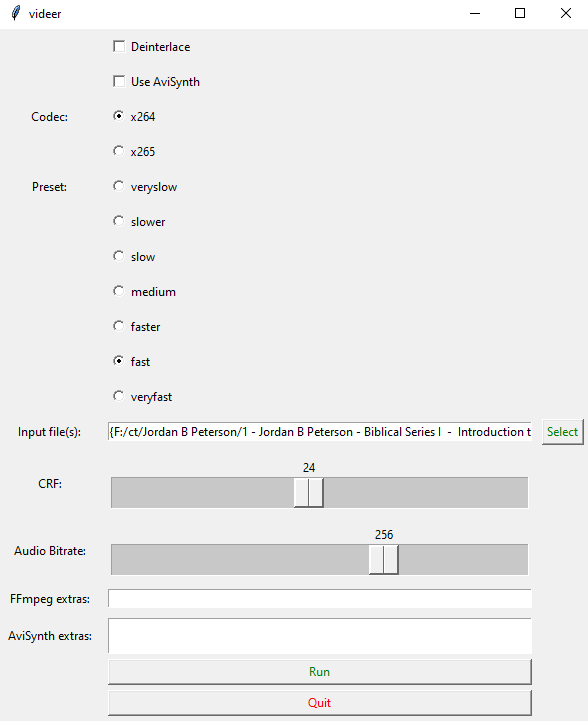
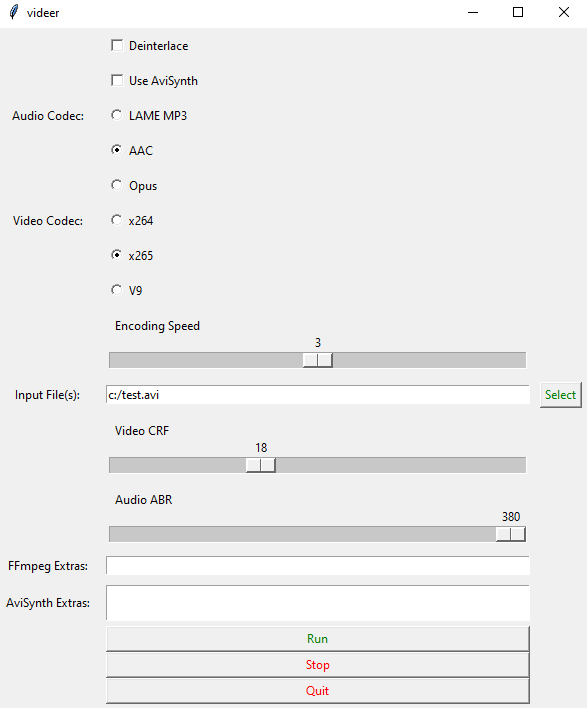
integrate labels to widgets update thumb

diff --git a/videer.py b/videer.py
@@ -186,10 +186,7 @@ class Application(tk.Frame):
         self.codec_button = tk.Radiobutton(self, text="V9", variable=self.codec_var, value="libvpx-vp9")
         self.codec_button.grid(row=7, column=1, sticky='w', pady=5, padx=5)
 
-        self.speed_label = tk.Label(self)
-        self.speed_label["text"] = "Speed: "
-        self.speed_label.grid(row=8, column=0, sticky='', padx=5)
-        self.speed = tk.Scale(self, from_=0, to=6, orient=tk.HORIZONTAL)
+        self.speed = tk.Scale(self, from_=0, to=6, orient=tk.HORIZONTAL, label="Encoding Speed")
         self.speed.grid(row=8, column=1, sticky='WE', pady=5, padx=5)
         self.speed.set(3)
 
@@ -205,17 +202,11 @@ class Application(tk.Frame):
         self.infile = tk.Entry(self, textvariable=self.infile_value, width=70)
         self.infile.grid(row=15, column=1, sticky='W', padx=5)
 
-        self.crf_label = tk.Label(self)
-        self.crf_label["text"] = "CRF: "
-        self.crf_label.grid(row=16, column=0, sticky='', padx=5)
-        self.crf = tk.Scale(self, from_=0, to=51, orient=tk.HORIZONTAL)
+        self.crf = tk.Scale(self, from_=0, to=51, orient=tk.HORIZONTAL, label="Video CRF")
         self.crf.grid(row=16, column=1, sticky='WE', pady=5, padx=5)
         self.crf.set(18)
 
-        self.abr_label = tk.Label(self)
-        self.abr_label["text"] = "Audio ABR: "
-        self.abr_label.grid(row=17, column=0, sticky='', padx=5)
-        self.abr = tk.Scale(self, from_=0, to=384, orient=tk.HORIZONTAL)
+        self.abr = tk.Scale(self, from_=0, to=384, orient=tk.HORIZONTAL, label="Audio ABR", resolution=10)
         self.abr.grid(row=17, column=1, sticky='WE', pady=5, padx=5)
         self.abr.set(384)
 
@@ -235,13 +226,13 @@ class Application(tk.Frame):
         #self.avisynth_extras.insert(tk.END, "Just a text Widget\nin two lines\n")
 
         self.run = tk.Button(self, text="Run", fg="green", command=lambda: self.runfx())
-        self.run.grid(row=20, column=1, sticky='WE', padx=5, pady=(5))
+        self.run.grid(row=20, column=1, sticky='WE', padx=5)
 
         self.stop = tk.Button(self, text="Stop", fg="red", command=self.stop_process)
-        self.stop.grid(row=21, column=1, sticky='WE', padx=5, pady=(5))
+        self.stop.grid(row=21, column=1, sticky='WE', padx=5)
 
         self.quit = tk.Button(self, text="Quit", fg="red", command=self.master.destroy)
-        self.quit.grid(row=22, column=1, sticky='WE', padx=5, pady=(5))
+        self.quit.grid(row=22, column=1, sticky='WE', padx=5, pady=(0,5))
 
 
 if __name__ == "__main__":
